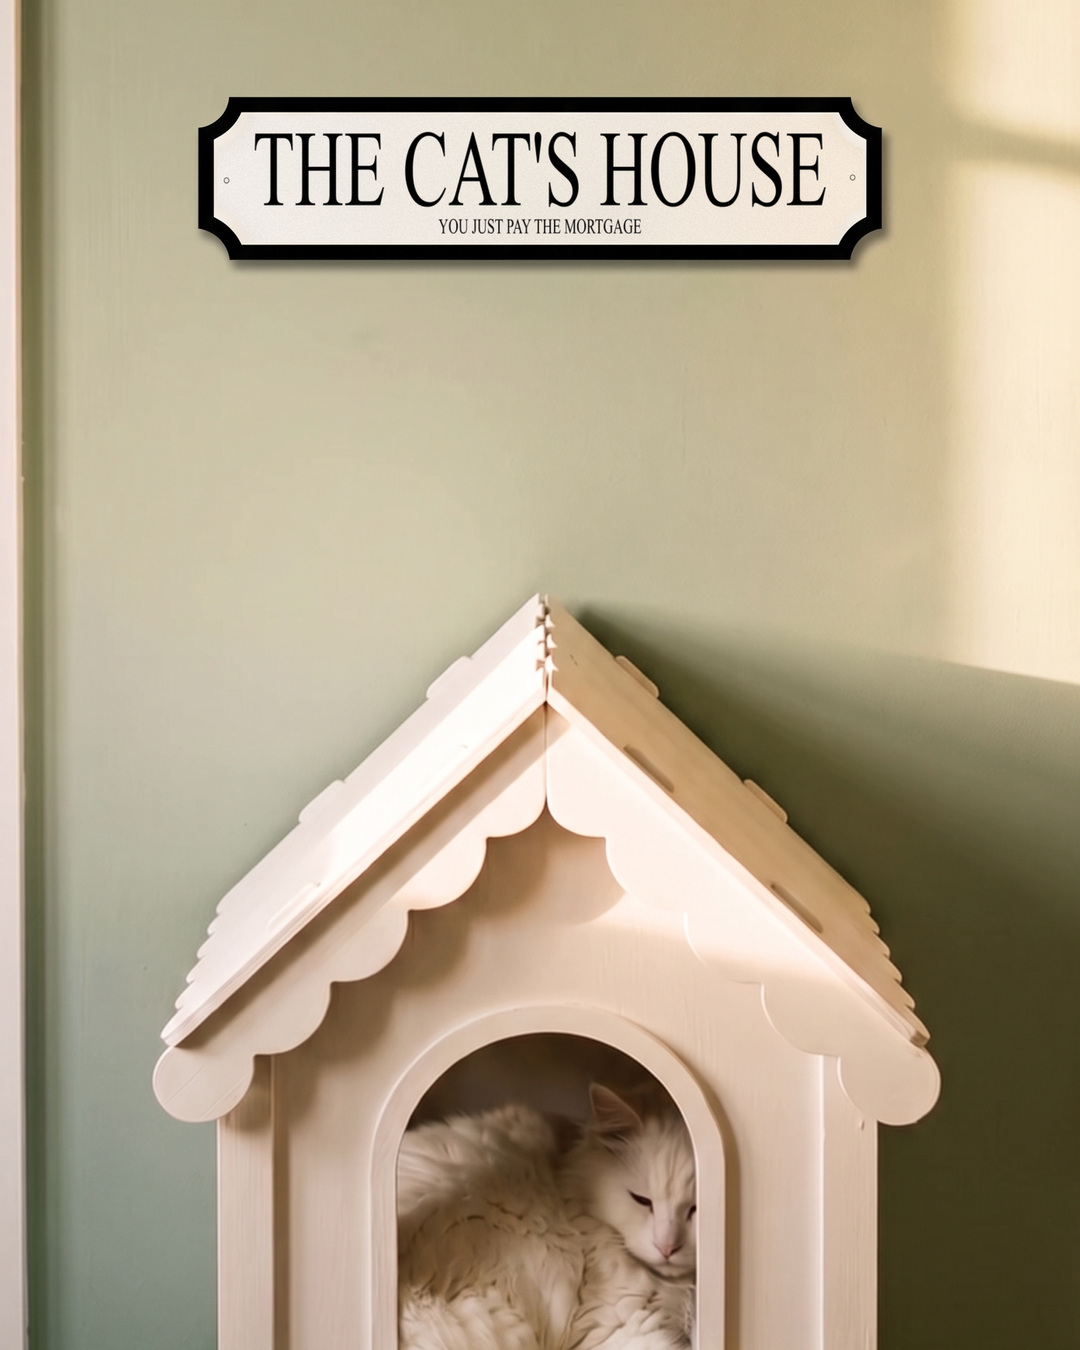
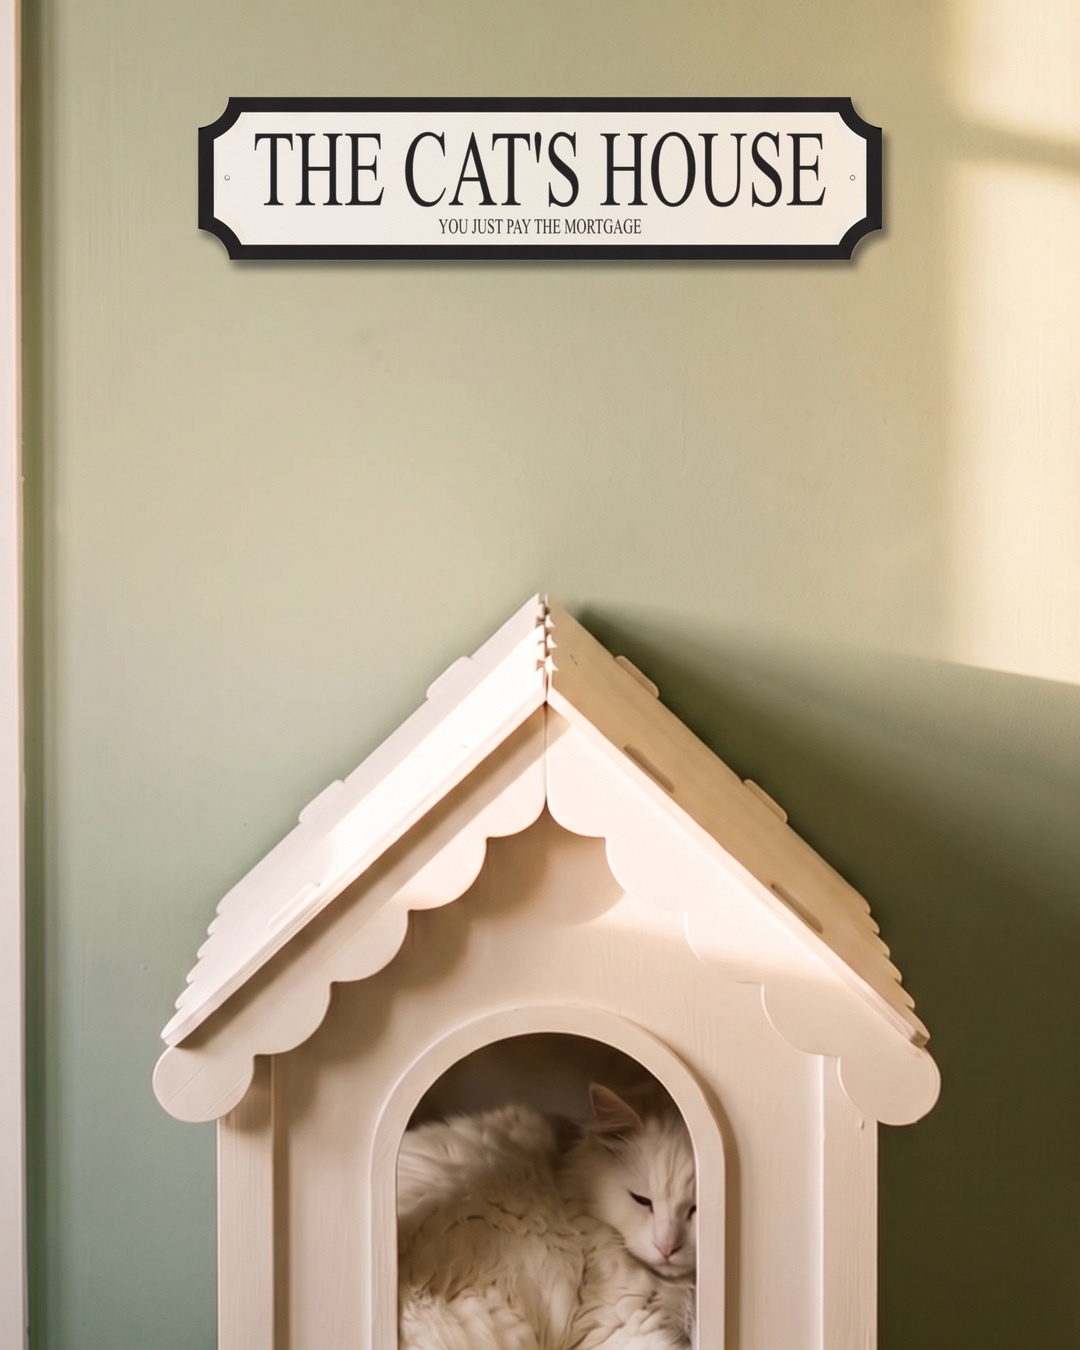
content: find and fix the "I can tell it came from the SVG" tell, and the scale fault
Max saw both and could name neither precisely. Both measure out.

THE TELL IS CONTRAST, NOT SHARPNESS. Ink luminance and ink/panel ratio, same
product, same colourway:

  real photograph of a real sign, letters ....  38.5   ratio 0.213
  real photograph, border sample .............  27.3   ratio 0.140
  the generated plate ........................   7.8   ratio 0.034
  a reprint on that plate ....................  11.6   ratio 0.050

The generated sign is four to six times more contrasty than the real object ever
photographs. Vector black is #000 and stays #000; real black ink in a lit room
never comes back below ~25-45, because ambient light scatters off the panel into
the ink, the lens adds veiling glare, and ink is a satin surface not a void.
Absolute blacks in a lit interior are a rendering signature — which is exactly
why it was visible but unnameable.

It was never sharpness: measured 10-90% edge rise was already 2.0px on both the
plate and the reprint, matched. Checking that first saved chasing the wrong fault.

The fix is the physics in reverse — glare adds light, exposure renormalises — so
an affine map that holds the panel level and lands the ink on the measured ratio.
Nothing moves; it is a grade, not a redraw. Applied across the whole sign
silhouette so reprinted letters cannot end up lighter than the photographed
border around them. Cat plate: ink 11.6 -> 47.0, ratio 0.050 -> 0.193.
[…]

Changed region(s): [[0.1833, 0.0622, 0.825, 0.2178]]

diff --git a/Content Pipeline/templates/sign-reprint/rescale_plate.py b/Content Pipeline/templates/sign-reprint/rescale_plate.py
@@ -1,0 +1,189 @@
+#!/usr/bin/env python3
+"""
+Correct a plate whose sign was generated at the wrong physical size.
+
+Why this is needed
+------------------
+Max: "the sizing isn't right for the sage sign. It just looks like a Chinese AI
+photo."
+
+He was right and it measures out. The real sign is 570mm wide. Read against
+three independent anchors in the dog plate's own room:
+
+    panelling dado (floor->rail, 680px @ ~1050mm)  sign should be 369px  (2.08x over)
+    golden retriever lying, nose to rump (800px)   sign should be 480px  (1.60x over)
+    ceramic dog bowl diameter (174px @ ~180mm)     sign should be 551px  (1.39x over)
+
+It measures 768px. So it is roughly 1.6x too big — a 90cm plaque instead of a
+57cm one. And note the anchors disagree with each other by 1.5x, which means the
+generated ROOM is not internally consistent on scale either. That inconsistency
+is its own tell, and it is not fixable by resizing the sign.
+
+What this does
+--------------
+Shrinks the PHOTOGRAPHED sign rather than redrawing it, so all the realism the
+plate paid for survives — material, border, shaped ends, drilled holes, edge
+highlights, and the contact shadow, which scales with it.
+
+The move that makes it clean is working in RATIO space, not pixel space:
+
+  1. Estimate the wall behind the sign by fitting a robust 2D quadratic to a ring
+     of wall pixels around it. The wall is plain emulsion with a soft gradient, so
+     a quadratic fits it to within grain.
+  2. ratio = patch / wall_estimate. The sign reads far from 1, the contact shadow
+     reads slightly under 1, and clean wall reads exactly 1.
+  3. Scale that RATIO map, not the pixels, and multiply it back onto the wall.
+
+Scaling pixels would drag the old wall tone along with the sign and leave a
+visible rectangle. Scaling the ratio means sign and shadow shrink together and
+anything that was wall stays wall, automatically.
+
+Usage
+-----
+    python3 rescale_plate.py --plate dog --scale 0.625 --out plate-dog-rescaled.png
+"""
+
+import argparse, json, os
+import numpy as np
+from PIL import Image
+
+HERE = os.path.dirname(os.path.abspath(__file__))
+from reprint import _blur                       # noqa: E402
+
+
+def fit_wall(plate_np, box, ring=110, iters=3):
+    """Robust 2D quadratic fit to the wall around `box`, evaluated inside it."""
+    x0, y0, x1, y1 = box
+    H, W = plate_np.shape[:2]
+    rx0, ry0 = max(0, x0 - ring), max(0, y0 - ring)
+    rx1, ry1 = min(W, x1 + ring), min(H, y1 + ring)
+
+    yy, xx = np.mgrid[ry0:ry1, rx0:rx1]
+    outside = ~((xx >= x0) & (xx < x1) & (yy >= y0) & (yy < y1))
+
+    sx = (xx - x0) / max(1, x1 - x0)
+    sy = (yy - y0) / max(1, y1 - y0)
+    A = np.stack([np.ones_like(sx), sx, sy, sx * sx, sx * sy, sy * sy], -1)
+
+    out = np.empty((y1 - y0, x1 - x0, 3), float)
+    gy, gx = np.mgrid[0:y1 - y0, 0:x1 - x0]
+    gsx = gx / max(1, x1 - x0)
+    gsy = gy / max(1, y1 - y0)
+    G = np.stack([np.ones_like(gsx), gsx, gsy, gsx * gsx, gsx * gsy, gsy * gsy], -1)
+
+    for c in range(3):
+        vals = plate_np[ry0:ry1, rx0:rx1, c]
+        keep = outside.copy()
+        coef = None
+        for _ in range(iters):
+            # Robust: the ring can clip a coat or a hook, and one dark outlier
+            # tilts a least-squares plane badly. Refit after dropping >2 sigma.
+            M = A[keep]
+            coef, *_ = np.linalg.lstsq(M, vals[keep], rcond=None)
+            resid = vals - A @ coef
+            s = resid[keep].std()
+            keep = outside & (np.abs(resid) < 2.0 * max(s, 1.0))
+        out[:, :, c] = G @ coef
+    return out
+
+
+def rescale_sign(plate, cfg, scale, dy=0):
+    """Shrink the photographed sign (and its shadow) about its own centre."""
+    a = np.asarray(plate.convert("RGB"), dtype=float)
+    sx0, sy0, sx1, sy1 = cfg["box"]
+
+    # Work on a margin around the sign so the contact shadow travels with it.
+    mw = int(round((sx1 - sx0) * 0.10))
+    mh = int(round((sy1 - sy0) * 0.55))          # shadow falls mostly below
+    bx0, by0 = max(0, sx0 - mw), max(0, sy0 - mh)
+    bx1, by1 = min(a.shape[1], sx1 + mw), min(a.shape[0], sy1 + mh)
+    box = (bx0, by0, bx1, by1)
+
+    wall = fit_wall(a, box)
+    patch = a[by0:by1, bx0:bx1]
+
+    # Harmonise the fit against the REAL wall. A quadratic gets the shape right but
+    # can sit a couple of levels off, and that showed up as a faint rectangular
+    # ghost exactly where the old sign had been — the eye finds a flat tonal patch
+    # even at 2 levels. So: measure the residual wherever the patch IS clean wall,
+    # fill that residual across the sign by normalised convolution, and add it
+    # back. The estimate now agrees with the real wall at every boundary and only
+    # interpolates where it has to.
+    rough = patch / np.maximum(wall, 1.0)
+    cleanw = ((np.abs(rough.mean(2) - 1.0) < 0.012).astype(float))[:, :, None]
+    resid = (patch - wall) * cleanw
+    num = _blur(resid, 60.0)
+    den = _blur(np.repeat(cleanw, 3, axis=2), 60.0)
+    wall = wall + num / np.maximum(den, 1e-3)
+
+    ratio = patch / np.maximum(wall, 1.0)
+
+    # Scale the ratio map about the sign's centre, padding with 1.0 (= clean wall)
+    ph, pw = ratio.shape[:2]
+    nw, nh = max(1, int(round(pw * scale))), max(1, int(round(ph * scale)))
+    r_img = Image.fromarray(np.clip(ratio * 128.0, 0, 255).astype(np.uint8))
+    r_small = np.asarray(r_img.resize((nw, nh), Image.LANCZOS), dtype=float) / 128.0
+
+    new_ratio = np.ones_like(ratio)
+    cx = (sx0 + sx1) / 2.0 - bx0
+    cy = (sy0 + sy1) / 2.0 - by0
+    # keep the sign's own centre fixed, then allow a deliberate vertical nudge
+    ox = int(round(cx - (cx * scale)))
+    oy = int(round(cy - (cy * scale))) + dy
+    ox = max(0, min(pw - nw, ox))
+    oy = max(0, min(ph - nh, oy))
+    new_ratio[oy:oy + nh, ox:ox + nw] = r_small
+
+    # Touch ONLY what has to change: where the old sign/shadow must be erased, and
+    # where the new one must be drawn. Replacing the whole patch with
+    # wall * new_ratio left a faint rectangle, because a quadratic fit of the wall
+    # is close but not equal to the real wall, and the eye finds a straight tonal
+    # seam instantly. Outside those two areas the original pixels survive
+    # untouched, so there is no seam to find.
+    def active(r, grow=9):
+        d = np.abs(r.mean(2) - 1.0)
+        m = (d > 0.012).astype(float)
+        m = _blur(m, grow)
+        return np.clip(m * 3.0, 0.0, 1.0)
+
+    w = np.clip(active(ratio) + active(new_ratio), 0.0, 1.0)
+    w = _blur(w, 3.0)[:, :, None]
+
+    rebuilt = wall * new_ratio
+
+    # the fitted wall is perfectly smooth; give the erased area back the plate's grain
+    g = a[by0:by1, bx0:bx1].mean(2)
+    hp = g - _blur(g, 1.6)
+    sd = 1.4826 * float(np.median(np.abs(hp - np.median(hp))))
+    rng = np.random.default_rng(11)
+    clean = ((new_ratio.mean(2) > 0.995) & (new_ratio.mean(2) < 1.005)).astype(float)
+    n = rng.normal(0.0, min(max(sd, 0.4), 2.5), (by1 - by0, bx1 - bx0))
+    rebuilt = rebuilt + (n * clean)[:, :, None]
+
+    out = a.copy()
+    out[by0:by1, bx0:bx1] = patch * (1 - w) + rebuilt * w
+
+    new_box = [int(round(bx0 + ox + (sx0 - bx0) * scale)),
+               int(round(by0 + oy + (sy0 - by0) * scale)),
+               int(round(bx0 + ox + (sx1 - bx0) * scale)),
+               int(round(by0 + oy + (sy1 - by0) * scale))]
+    return Image.fromarray(np.clip(out, 0, 255).astype(np.uint8)), new_box
+
+
+def main():
+    ap = argparse.ArgumentParser()
+    ap.add_argument("--plate", required=True)
+    ap.add_argument("--scale", type=float, required=True)
+    ap.add_argument("--dy", type=int, default=0)
+    ap.add_argument("--out", required=True)
+    a = ap.parse_args()
+    cfg = json.load(open(os.path.join(HERE, "plates.json")))[a.plate]
+    plate = Image.open(os.path.join(HERE, cfg["image"]))
+    img, new_box = rescale_sign(plate, cfg, a.scale, a.dy)
+    img.save(a.out)
+    print("wrote %s\nnew sign box: %s  (%dpx wide)"
+          % (a.out, new_box, new_box[2] - new_box[0]))
+
+
+if __name__ == "__main__":
+    main()

diff --git a/Content Pipeline/templates/sign-reprint/reprint.py b/Content Pipeline/templates/sign-reprint/reprint.py
@@ -306,6 +306,58 @@ def match_grain(out_np, plate_np, mask_np, seed=7):
     return out_np + n * mask_np[:, :, None]
 
 
+# --------------------------------------------------------------- ink realism
+def ink_grade(region, sign_mask, target_ratio, tint=(1.00, 0.92, 0.97)):
+    """Lift the sign's blacks to a real photograph's measured response.
+
+    THIS IS THE STEP THAT KILLS THE "I can tell it came from the SVG" TELL.
+
+    Max could see it and could not name it; it measures out unambiguously. Ink
+    luminance and ink/panel contrast ratio, same product, same colourway:
+
+        real photograph, real sign, real room ....  38.5   ratio 0.213
+        real photograph, border sample ..........  27.3   ratio 0.140
+        the generated plate .....................   7.8   ratio 0.034
+        a reprint on that plate .................  11.6   ratio 0.050
+
+    The generated sign is four to six times more contrasty than the real object
+    ever photographs. Vector black is #000 and renders as #000; real black ink in
+    a real room never comes back below roughly 25-45, because ambient light
+    scatters off the panel into the ink, the lens adds veiling glare, and the ink
+    is a satin surface rather than a void. Absolute blacks in a lit interior are
+    a rendering signature, and the eye reads them instantly as synthetic even
+    when it cannot say why.
+
+    The correction is the physics in reverse: glare ADDS a roughly constant
+    amount of light, then exposure renormalises. So this is an affine map chosen
+    so the panel level is left exactly where it is and the ink lands on the
+    target ratio — geometry, edges and texture all untouched.
+
+    Applied across the WHOLE sign silhouette, letters and printed border alike.
+    Grading only the panel would leave the reprinted letters lighter than the
+    photographed border around them, which is a worse artefact than the one it
+    fixes. This is a grade, not a redraw: no pixel moves.
+    """
+    a = region.astype(float)
+    lum = a.mean(2)
+    inside = sign_mask > 0.5
+    if not inside.any():
+        return a
+
+    panel = np.percentile(a[inside], 88, axis=0)
+    ink = np.percentile(a[inside], 4, axis=0)
+
+    target = panel * target_ratio * np.asarray(tint, dtype=float)
+    denom = np.maximum(panel - ink, 1.0)
+    alpha = panel * (1.0 - target / np.maximum(panel, 1.0)) / denom
+    alpha = np.clip(alpha, 0.55, 1.0)
+    beta = panel - alpha * panel
+
+    graded = a * alpha + beta
+    m = sign_mask[:, :, None]
+    return a * (1 - m) + graded * m
+
+
 # ------------------------------------------------------------------ the swap
 def reprint(plate_cfg, line1, line2, heart=False, fit=486, focus=0.45):
     plate = Image.open(os.path.join(HERE, plate_cfg["image"])).convert("RGB")
@@ -350,6 +402,17 @@ def reprint(plate_cfg, line1, line2, heart=False, fit=486, focus=0.45):
     if focus:                                   # match the plate's focus layer
         soft = patch.filter(ImageFilter.GaussianBlur(focus))
         patch = Image.composite(soft, patch, mask)
+
+    # Ink realism grade over the whole sign silhouette. Off unless the plate
+    # declares a target ratio, so existing behaviour is unchanged without opt-in.
+    ratio = plate_cfg.get("ink_ratio")
+    if ratio:
+        sign_alpha = np.asarray(
+            face.split()[3].point(lambda v: 255 if v > 128 else 0)
+            .filter(ImageFilter.GaussianBlur(0.8)), dtype=float) / 255.0
+        graded = ink_grade(np.asarray(patch, dtype=float), sign_alpha, ratio,
+                           tuple(plate_cfg.get("ink_tint", (1.00, 0.92, 0.97))))
+        patch = Image.fromarray(np.clip(graded, 0, 255).astype(np.uint8))
 
     final = plate.copy()
     final.paste(patch, (x0, y0))

diff --git a/Content Pipeline/SIGN_CAROUSEL_ENGINE.md b/Content Pipeline/SIGN_CAROUSEL_ENGINE.md
@@ -99,6 +99,71 @@ wrong, and three of them would have shipped unnoticed.
 **The lesson, again:** every one of these was found by *measuring* the output
 against the plate, not by looking at it. Three looked fine at thumbnail size.
 
+## 4b. The "I can tell it came from the SVG" tell — found and fixed
+
+Max: *"the actual sign, I can tell that it was used from the SVG."*
+
+He could see it and could not name it. It measures out unambiguously. Ink
+luminance and ink/panel contrast ratio, same product, same colourway:
+
+| | ink | ratio |
+|---|---|---|
+| **Real photograph** of a real sign, real room (letters) | **38.5** | **0.213** |
+| **Real photograph**, border sample | **27.3** | **0.140** |
+| The generated plate | 7.8 | 0.034 |
+| A reprint on that plate | 11.6 | 0.050 |
+
+**The generated sign is four to six times more contrasty than the real object
+ever photographs.** Vector black is `#000` and renders as `#000`. Real black ink
+in a real room never comes back below roughly 25–45, because ambient light
+scatters off the panel surface into the ink, the lens adds veiling glare, and the
+ink is a satin surface rather than a void.
+
+**Absolute blacks in a lit interior are a rendering signature.** The eye reads
+them as synthetic instantly, which is exactly why Max could see it without being
+able to point at it. It was never a resolution, sharpness or texture problem —
+measured edge rise was already 2.0px on both the plate and the reprint, matched.
+
+The fix is the physics in reverse. Glare *adds* a roughly constant amount of
+light and exposure then renormalises, so the correction is an affine map chosen
+so the panel level stays exactly put and the ink lands on the target ratio.
+Nothing moves; it is a grade, not a redraw. Applied across the whole sign
+silhouette, letters and printed border together — grading only the panel would
+leave reprinted letters lighter than the photographed border around them, which
+is a worse artefact than the one it fixes.
+
+Result on the cat plate: ink **11.6 → 47.0**, ratio **0.050 → 0.193**, against
+the real photograph's 0.213. Per-plate via `"ink_ratio"` in `plates.json`.
+
+## 4c. Scale — the fault Max called on the sage plate
+
+Max: *"the sizing isn't right for the sage sign. It just looks like a Chinese AI
+photo."*
+
+Correct. The real sign is 570mm wide. Read against three independent anchors in
+the dog plate's own room:
+
+| Anchor | implies sign should be | oversized by |
+|---|---|---|
+| panelling dado, floor→rail 680px @ ~1050mm | 369px | **2.08×** |
+| golden retriever lying, nose to rump 800px @ ~950mm | 480px | **1.60×** |
+| ceramic dog bowl 174px @ ~180mm | 551px | **1.39×** |
+
+It measures **768px** — roughly **1.6× too big**, a 90cm plaque instead of a 57cm
+one. That alone explains the reaction.
+
+**And the anchors disagree with each other by 1.5×**, which means the generated
+*room* is not internally consistent on scale. That is a second, deeper tell and
+**resizing the sign cannot fix it** — only a better plate can.
+
+`rescale_plate.py` corrects the sign size on an existing plate by shrinking the
+**photographed** sign rather than redrawing it, so material, border, holes and
+contact shadow all survive. It works in ratio space (`patch / wall_estimate`)
+rather than pixel space, because scaling pixels drags the old wall tone along and
+leaves a visible rectangle. Applied at 0.625× the dog sign is now 480px and
+correctly proportioned; a faint tonal trace remains where the old sign was
+erased. **Treat it as a repair tool, not a licence to accept mis-scaled plates.**
+
 ## 5. Gates — blocking, automated
 
 - **Raster fill.** The 409-vertex contour fills its 570×125 viewBox exactly, so
@@ -110,6 +175,18 @@ against the plate, not by looking at it. Three looked fine at thumbnail size.
 - **Round-trip.** Reprint the plate's *own* wording and compare. Cream and ink
   must match the plate within a few levels. Recorded: cat cream 242/235/226 vs
   242/234/228, ink 1/0/0 vs 1/1/1. Dog cream 239/236/224 vs 244/240/229.
+- **SCALE GATE — new, and it should have existed from the start.** Before a plate
+  is accepted, measure the sign against **at least two** independent objects of
+  known real size in the same frame (dado rail ~1050mm, interior door leaf
+  ~800–900mm, dog bowl ~180mm, a lying retriever ~950mm nose-to-rump, floorboard
+  width ~180–200mm). The sign is 570mm. Reject the plate if the implied width is
+  more than **±15%** off, and reject it if the anchors disagree with each other by
+  more than **±20%** — that means the room itself has no consistent scale and no
+  amount of correction will save it. This gate is what would have caught the sage
+  plate before it was ever reprinted onto.
+- **INK-RATIO GATE.** Ink/panel contrast ratio must land in **0.12–0.24**, the
+  range measured on real photographs of the real product. Below 0.08 is the
+  vector-black signature and reads as CGI.
 - **Never assert canonical 4.56:1 on an in-situ frame.** The cat plate's sign
   measures 4.17:1 and the dog plate's 4.09:1 on screen; that is real
   foreshortening on a wall-mounted sign, not a defect. Measure the box, do not
